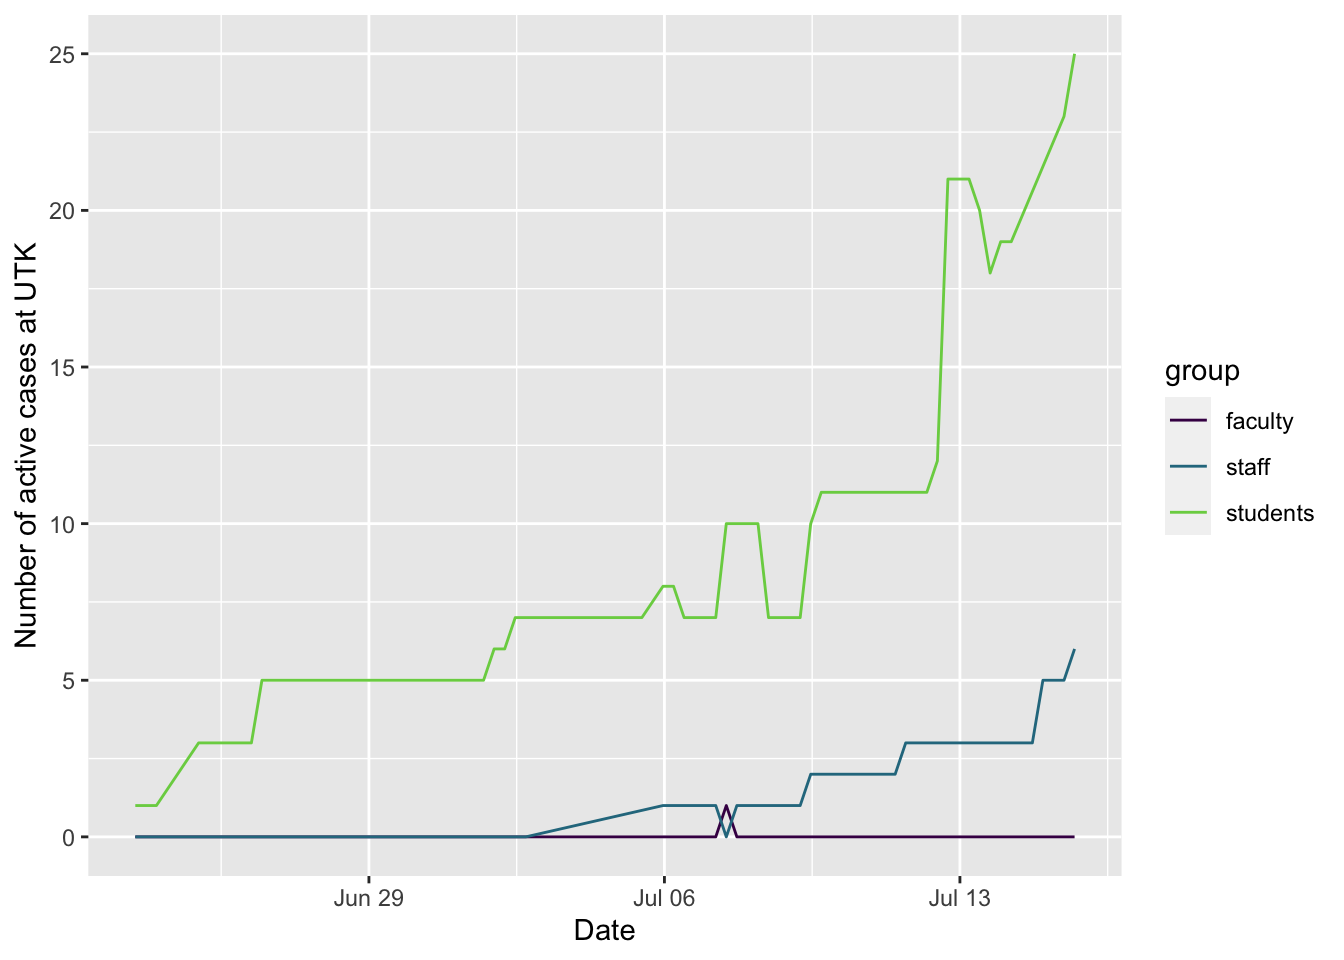
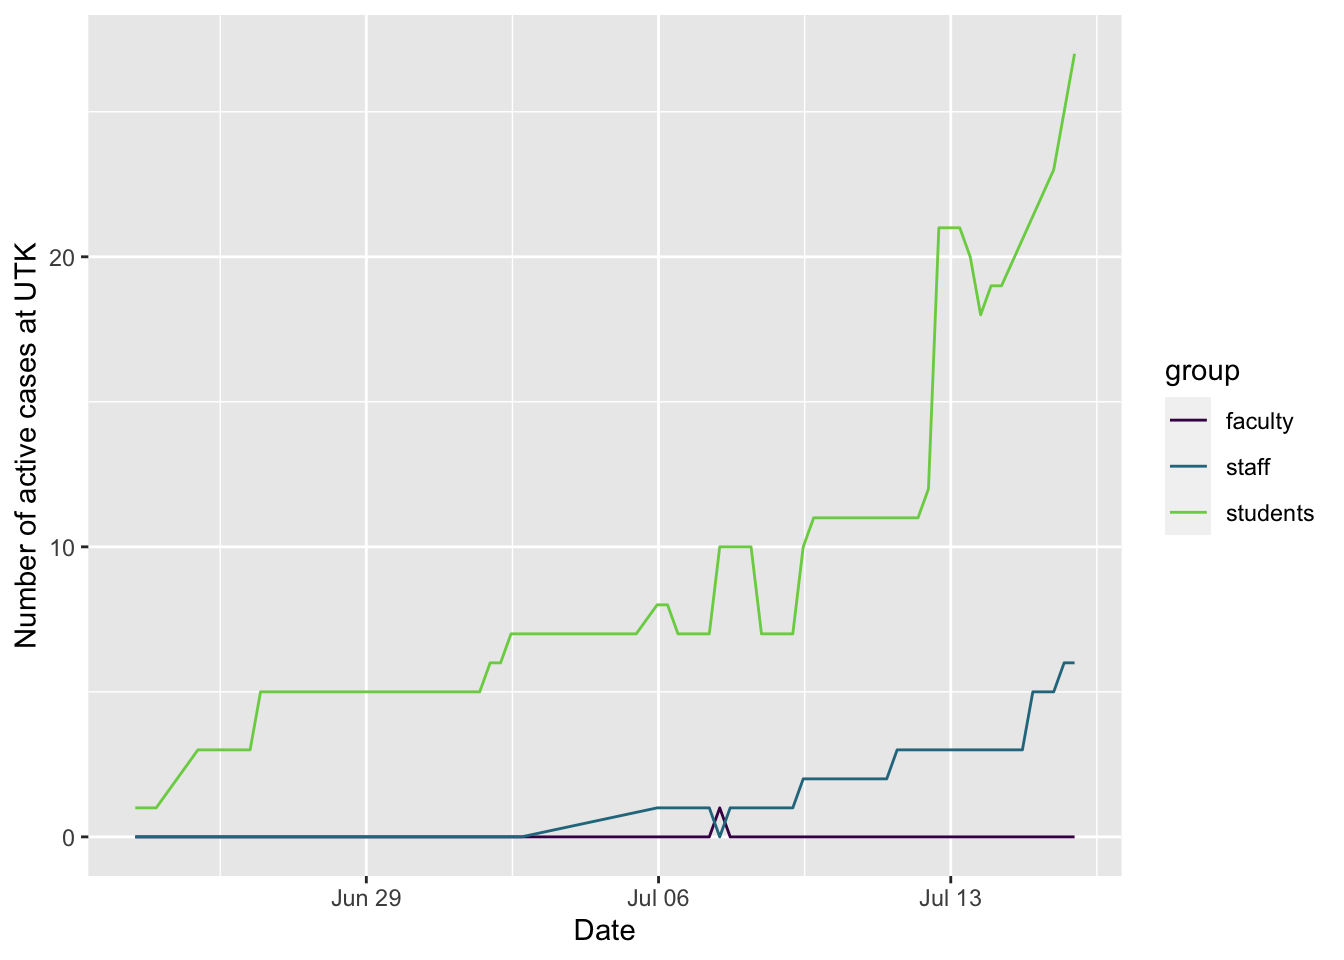
updating site

diff --git a/docs/covid.html b/docs/covid.html
@@ -411,7 +411,7 @@ $(document).ready(function () {
 <li><a href="https://projects.propublica.org/reopening-america/">ProPublica’s tracker of state status</a>. Click on the play button below their map to see how rates are changing over time, and dig into info on your state.</li>
 </ul>
 <hr />
-<p>Here are some plots, created in R using data from <a href="https://covid19datahub.io" class="uri">https://covid19datahub.io</a> (Guidotti, E., Ardia, D., (2020), “COVID-19 Data Hub”, Working paper, doi: 10.13140/RG.2.2.11649.81763), as well as information from Google and the <a href="https://www.tn.gov/health/cedep/ncov/data/downloadable-datasets.html">state of Tennessee dataset page</a> and plotting and analysis using the <code>forecast</code>, <code>ggplot2</code>, <code>reshape2</code>, and <code>dplyr</code> packages. It also uses the <a href="https://github.com/mtna/rds-r">rds-r</a> package from <a href="https://www.richdataservices.com/" class="uri">https://www.richdataservices.com/</a>. Plots created on 2020-07-15 18:34:08. I use <code>ggplot2</code>’s <code>geom_smooth()</code> function for the smoothed regression plots with its default formula, which uses loess smoothing for this many points. This is not based on a model of disease spread or anything similarly sophisticated, just drawing a smooth curve to summarize noisy points (see <a href="https://www.itl.nist.gov/div898/handbook/pmd/section1/pmd144.htm">here</a> for more details).</p>
+<p>Here are some plots, created in R using data from <a href="https://covid19datahub.io" class="uri">https://covid19datahub.io</a> (Guidotti, E., Ardia, D., (2020), “COVID-19 Data Hub”, Working paper, doi: 10.13140/RG.2.2.11649.81763), as well as information from Google and the <a href="https://www.tn.gov/health/cedep/ncov/data/downloadable-datasets.html">state of Tennessee dataset page</a> and plotting and analysis using the <code>forecast</code>, <code>ggplot2</code>, <code>reshape2</code>, and <code>dplyr</code> packages. It also uses the <a href="https://github.com/mtna/rds-r">rds-r</a> package from <a href="https://www.richdataservices.com/" class="uri">https://www.richdataservices.com/</a>. Plots created on 2020-07-16 00:34:03. I use <code>ggplot2</code>’s <code>geom_smooth()</code> function for the smoothed regression plots with its default formula, which uses loess smoothing for this many points. This is not based on a model of disease spread or anything similarly sophisticated, just drawing a smooth curve to summarize noisy points (see <a href="https://www.itl.nist.gov/div898/handbook/pmd/section1/pmd144.htm">here</a> for more details).</p>
 <p>The number of new and active cases should be not be going up if things are well-controlled, and ideally should be going down. The number of active cases is the number of positive cases minus the total of recovered or deceased cases: note it is from those tested and shown to be positive, but there are likely more people with covid who have not been tested. This uses data from <a href="https://www.tn.gov/health/cedep/ncov/data/downloadable-datasets.html" class="uri">https://www.tn.gov/health/cedep/ncov/data/downloadable-datasets.html</a>. Note that the number of active cases in Knox County reported by the state differs from the <a href="https://covid.knoxcountytn.gov/case-count.html#covid_data">county website</a>, sometimes dramatically (on June 16, the county website said 102 active cases, while the state says 178, for example) – I suspect this is based on the number of recovered cases not being updated as quickly in the state data, but I do not know. Knox County does not seem to offer a download of their data through time, so I am using the state’s data. The number of new cases per day seems to align fairly well, but not perfectly, between the state and county data, too.</p>
 <p>I plot three regions</p>
 <ul>
@@ -431,7 +431,7 @@ $(document).ready(function () {
 <h2>
 Hospitalization
 </h2>
-<p>As of the last time the data were updated (likely 0 days ago), regional hospitals had 24 ICU beds available of 272 total, and 134 available ventilators out of 242 total. This is based on 19 acute care hospitals in the East TN region; based on the 14 counties these hospitals are in, these serve at least 1,235,720 people. When a line hits 100%, the local hospitals are theoretically full for that resource (for all patients, not just covid patients), though there is surge capacity on top of this. Note that these data are not updated frequently, so current conditions maybe be much better or worse than these plots show. Data on capacity from <a href="https://knxhx.richdataservices.com/">https://knxhx.richdataservices.com/</a>, data on hospitalizations and testing over time from the state data.</p>
+<p>As of the last time the data were updated (likely 1 days ago), regional hospitals had 24 ICU beds available of 272 total, and 134 available ventilators out of 242 total. This is based on 19 acute care hospitals in the East TN region; based on the 14 counties these hospitals are in, these serve at least 1,235,720 people. When a line hits 100%, the local hospitals are theoretically full for that resource (for all patients, not just covid patients), though there is surge capacity on top of this. Note that these data are not updated frequently, so current conditions maybe be much better or worse than these plots show. Data on capacity from <a href="https://knxhx.richdataservices.com/">https://knxhx.richdataservices.com/</a>, data on hospitalizations and testing over time from the state data.</p>
 <p><img src="covid_files/figure-html/hospitalcapacityplot-1.png" width="672" /></p>
 <p>Trends in hospitalization of covid patients over time. The vertical dotted line shows the last day with updated capacity information, when there were 24 ICU beds available (ignoring surge capacity) for people in the East Tennessee region.</p>
 <p><img src="covid_files/figure-html/plotsD-1.png" width="672" /></p>
